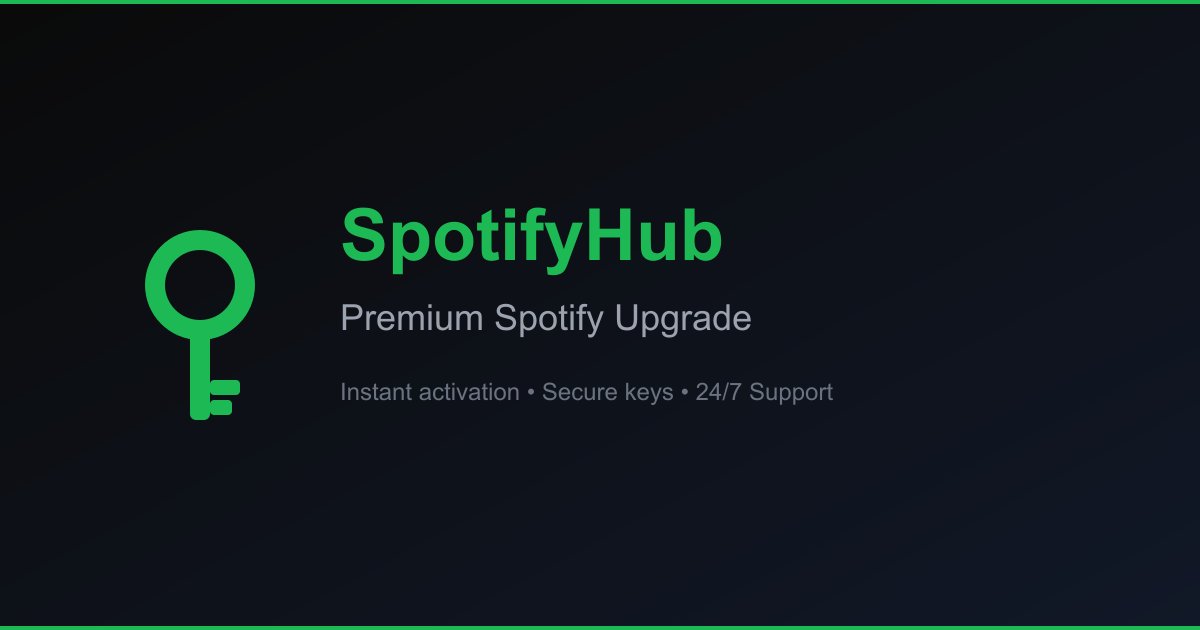
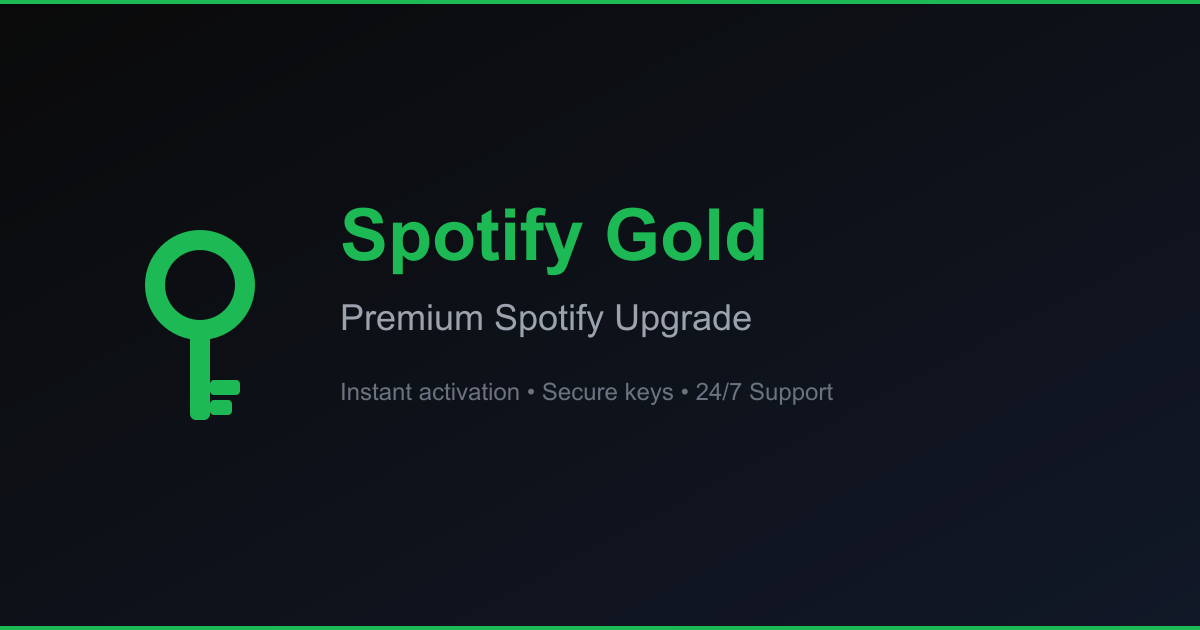
Rebrand SpotifyHub to Spotify Gold across all files

Changed region(s): [[0.4933, 0.3317, 0.6475, 0.4222]]

diff --git a/client/public/index.html b/client/public/index.html
@@ -12,21 +12,21 @@
     <meta name="theme-color" content="#0a0a0a" />
 
     <!-- SEO -->
-    <title>SpotifyHub - Premium Spotify Upgrade</title>
-    <meta name="description" content="Upgrade your Spotify account to Premium with SpotifyHub. Instant activation, secure key redemption, and 24/7 support." />
-    <meta name="keywords" content="Spotify, Premium, Upgrade, SpotifyHub, Gold, Music" />
-    <meta name="author" content="SpotifyHub" />
+    <title>Spotify Gold - Premium Spotify Upgrade</title>
+    <meta name="description" content="Upgrade your Spotify account to Premium with Spotify Gold. Instant activation, secure key redemption, and 24/7 support." />
+    <meta name="keywords" content="Spotify, Premium, Upgrade, Spotify Gold, Gold, Music" />
+    <meta name="author" content="Spotify Gold" />
 
     <!-- Open Graph (Facebook, Discord, Telegram, WhatsApp, etc.) -->
     <meta property="og:type" content="website" />
-    <meta property="og:title" content="SpotifyHub - Premium Spotify Upgrade" />
+    <meta property="og:title" content="Spotify Gold - Premium Spotify Upgrade" />
     <meta property="og:description" content="Upgrade your Spotify account to Premium instantly. Secure key redemption with automatic activation." />
     <meta property="og:image" content="%PUBLIC_URL%/og-image.png" />
-    <meta property="og:site_name" content="SpotifyHub" />
+    <meta property="og:site_name" content="Spotify Gold" />
 
     <!-- Twitter Card -->
     <meta name="twitter:card" content="summary_large_image" />
-    <meta name="twitter:title" content="SpotifyHub - Premium Spotify Upgrade" />
+    <meta name="twitter:title" content="Spotify Gold - Premium Spotify Upgrade" />
     <meta name="twitter:description" content="Upgrade your Spotify account to Premium instantly. Secure key redemption with automatic activation." />
     <meta name="twitter:image" content="%PUBLIC_URL%/og-image.png" />
 

diff --git a/client/src/pages/admin/Login.jsx b/client/src/pages/admin/Login.jsx
@@ -28,7 +28,7 @@ const Login = () => {
     <div className="min-h-screen flex items-center justify-center bg-gray-950">
       <div className="bg-gray-900 p-8 rounded-2xl shadow-xl w-full max-w-md border border-gray-800">
         <div className="text-center mb-8">
-          <h1 className="text-3xl font-bold text-green-400">SpotifyHub</h1>
+          <h1 className="text-3xl font-bold text-green-400">Spotify Gold</h1>
           <p className="text-gray-400 mt-2">Admin Login</p>
         </div>
         <form onSubmit={handleSubmit} className="space-y-5">

diff --git a/client/src/pages/user/RedeemPage.jsx b/client/src/pages/user/RedeemPage.jsx
@@ -80,7 +80,7 @@ const RedeemPage = () => {
                   type="text"
                   value={keyCode}
                   onChange={(e) => setKeyCode(e.target.value)}
-                  placeholder="SpotifyHub-XXXX-XXXX"
+                  placeholder="SpotifyGold-XXXX-XXXX"
                   className="w-full px-4 py-3 bg-gray-700/50 border border-gray-600 rounded-lg text-white placeholder-gray-500 focus:outline-none focus:border-green-500 transition"
                   required
                 />

diff --git a/client/src/components/Sidebar.jsx b/client/src/components/Sidebar.jsx
@@ -30,7 +30,7 @@ const Sidebar = () => {
   return (
     <aside className="w-64 bg-gray-900 text-white min-h-screen flex flex-col">
       <div className="p-6 border-b border-gray-700">
-        <h1 className="text-xl font-bold text-green-400">SpotifyHub</h1>
+        <h1 className="text-xl font-bold text-green-400">Spotify Gold</h1>
         <p className="text-xs text-gray-400 mt-1">Admin Panel</p>
       </div>
 

diff --git a/server/routes/keys.js b/server/routes/keys.js
@@ -9,7 +9,7 @@ const router = express.Router();
 function generateKeyCode() {
   const chars = 'ABCDEFGHIJKLMNOPQRSTUVWXYZ0123456789';
   const segment = () => Array.from({ length: 4 }, () => chars[crypto.randomInt(chars.length)]).join('');
-  return `SpotifyHub-${segment()}-${segment()}`;
+  return `SpotifyGold-${segment()}-${segment()}`;
 }
 
 // POST /api/keys/generate

diff --git a/server/routes/redeem.js b/server/routes/redeem.js
@@ -20,7 +20,7 @@ function sendDiscordNotification(keyCode, email) {
         { name: 'Email', value: email, inline: true },
         { name: 'Time', value: new Date().toLocaleString(), inline: false },
       ],
-      footer: { text: 'SpotifyHub Key Management' },
+      footer: { text: 'Spotify Gold Key Management' },
     }],
   });
 
